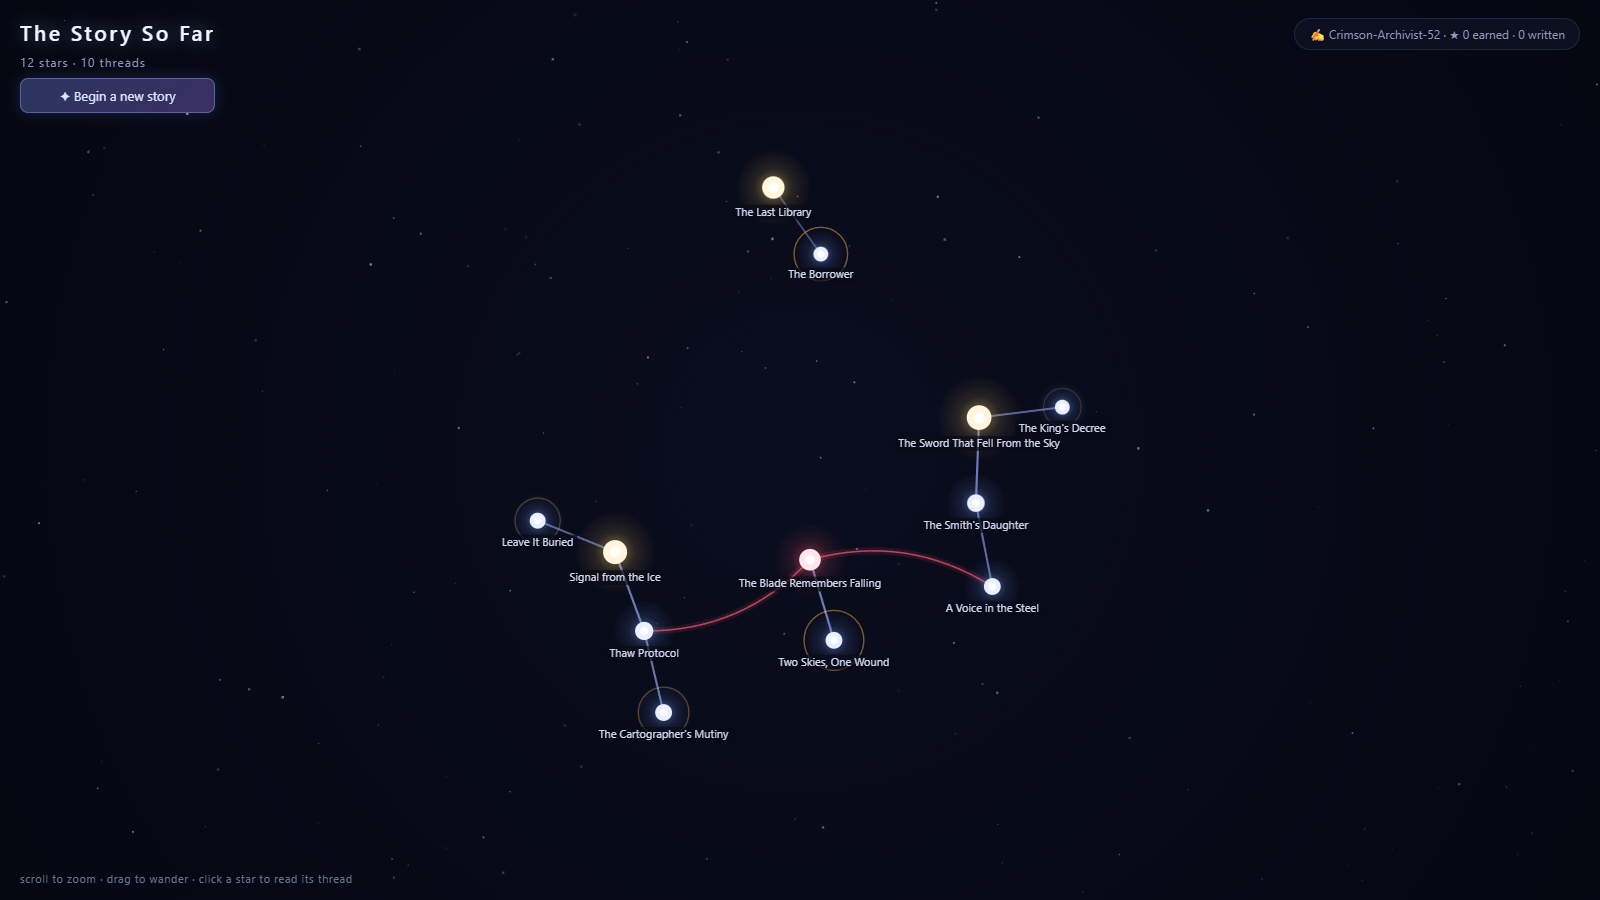
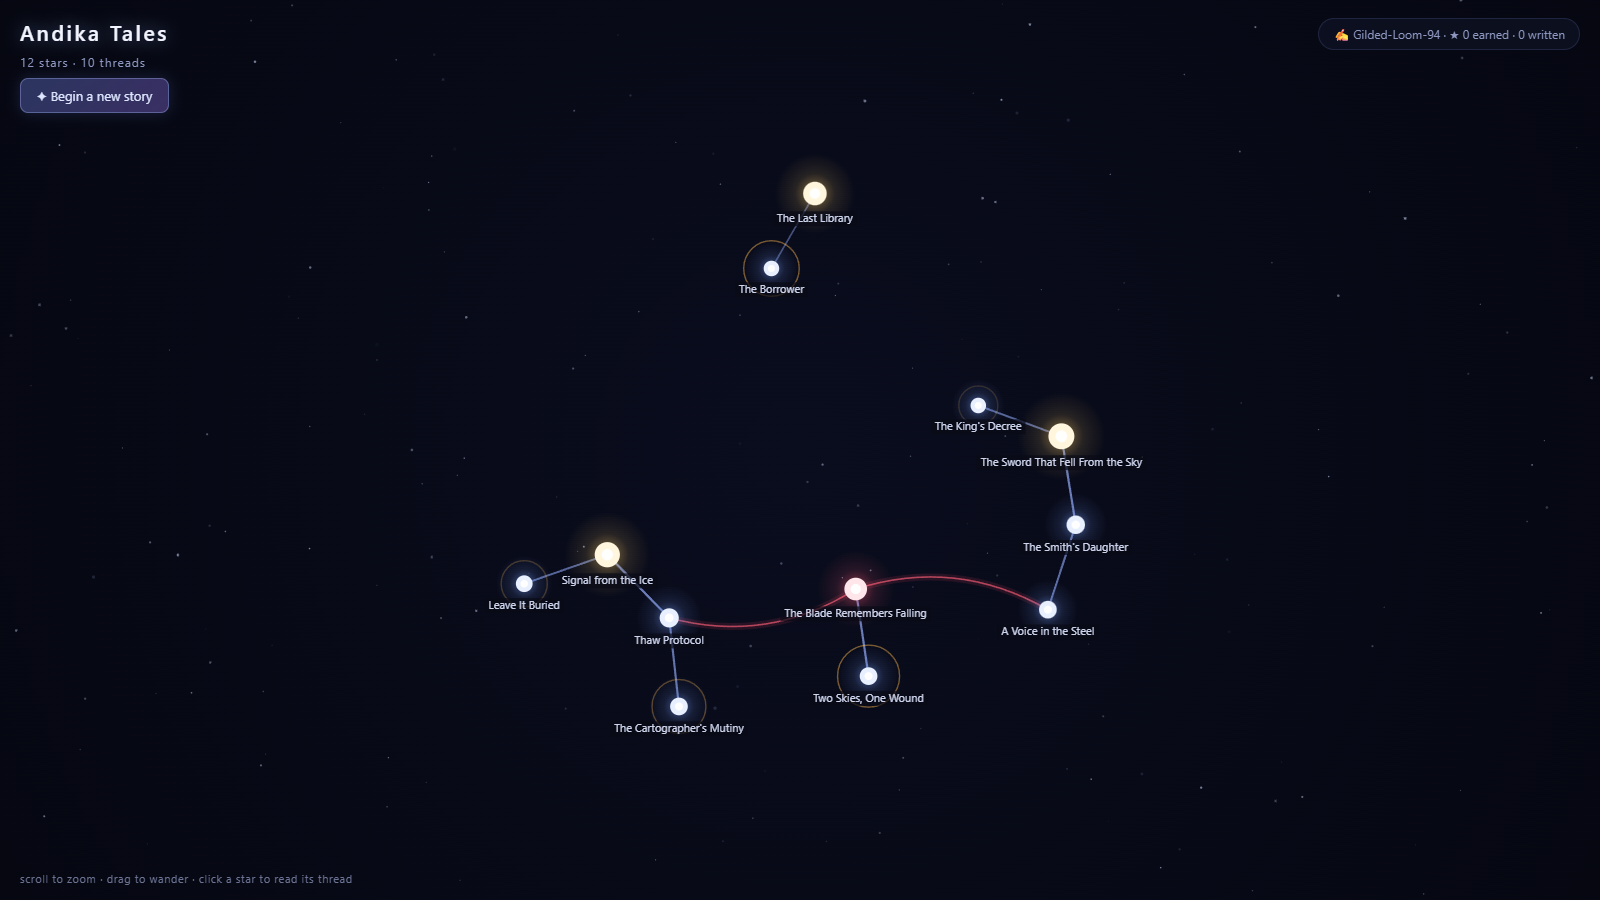
Rename to Andika Tales, add MIT license, drop the roadmap
The app is now Andika Tales everywhere it is user-visible or published:
browser title, HUD heading, API startup log, and the npm package names
(andika-tales, @andika/client, @andika/server), with the lockfile
regenerated. Directory names are unchanged, so the -w workspace scripts
still resolve.

The reader panel kicker read "The story so far" — the literal old app
name — so it becomes "The thread so far". Same meaning, no stale
branding. All five screenshots were recaptured against the running app
so none of them show the old name.

Adds an MIT LICENSE and a matching license field, and removes
docs/ROADMAP.md at the author's request, along with the roadmap-id tags
that pointed at it.

diff --git a/client/src/components/ReaderPanel.tsx b/client/src/components/ReaderPanel.tsx
@@ -58,7 +58,7 @@ export function ReaderPanel({
     <aside className="reader">
       <header className="reader-header">
         <div>
-          <div className="reader-kicker">The story so far</div>
+          <div className="reader-kicker">The thread so far</div>
           <div className="reader-count">
             {lineage ? `${lineage.length} chapter${lineage.length === 1 ? "" : "s"}` : "tracing…"}
           </div>

diff --git a/client/index.html b/client/index.html
@@ -3,7 +3,7 @@
   <head>
     <meta charset="UTF-8" />
     <meta name="viewport" content="width=device-width, initial-scale=1.0" />
-    <title>The Story So Far</title>
+    <title>Andika Tales</title>
     <style>
       html, body, #root { margin: 0; height: 100%; background: #04050d; }
     </style>

diff --git a/server/src/index.ts b/server/src/index.ts
@@ -123,5 +123,5 @@ app.post("/api/nodes/:id/vote", (req: AuthedRequest, res) => {
 });
 
 server.listen(PORT, () => {
-  console.log(`The Story So Far — API listening on http://localhost:${PORT}`);
+  console.log(`Andika Tales — API listening on http://localhost:${PORT}`);
 });

diff --git a/client/src/App.tsx b/client/src/App.tsx
@@ -175,7 +175,7 @@ export default function App() {
       />
 
       <div className="hud">
-        <h1>The Story So Far</h1>
+        <h1>Andika Tales</h1>
         <div className="hud-stats">
           {nodes.size} stars · {links.length} threads
         </div>

diff --git a/docs/HANDOVER.md b/docs/HANDOVER.md
@@ -14,15 +14,23 @@ Entry format:
 
 ## Entries (newest first)
 
-## 2026-09-03 — README with captured screenshots (R-009)
+## 2026-09-04 — Rename to Andika Tales, MIT license, roadmap removed
+**Done:** the app is now **Andika Tales** everywhere it is user-visible or published: browser title, the HUD heading, the API startup log, and the npm package names (`andika-tales`, `@andika/client`, `@andika/server`) with the lockfile regenerated. The reader panel kicker read "The story so far", which was the literal old app name, so it is now "The thread so far" — same meaning, no stale branding. All five screenshots were recaptured against the running app so none of them show the old name. Added an MIT `LICENSE` (Copyright 2026 Mundhir Werner, confirmed with the human) and a `license` field in the root manifest, with a License section in the README. Verified: both workspaces typecheck, the client production build succeeds, and both servers come up under the new name.
+**Half-done:** none.
+**Blocked:** nothing.
+**Next:** push to GitHub. `gh` still returns `HTTP 401: Bad credentials` — run `gh auth refresh -h github.com`, then `gh repo create andika-tales --public --source . --push`.
+**Open questions:** the working directory and git repo folder are still named `story-so-far`. Nothing depends on that name, so it is cosmetic, but the GitHub repo name is worth deciding deliberately when pushing.
+**Not in scope, noticed:** `docs/ROADMAP.md` was removed at the human's request, so the roadmap-id tags were stripped from the remaining entries. Commit messages from before the removal still cite R-002 and R-009; those are historical and were left alone. Still open: `engines` / `.nvmrc` for the Node 20+ requirement.
+
+## 2026-09-04 — README with captured screenshots
 **Done:** README rewritten as a proper front door — what the game is, the three node kinds, lineage tracing, crossovers, the composer, quickstart, architecture notes and code layout. Five screenshots captured from the running app against the seeded demo universe and committed to `docs/screenshots/`: the constellation, a traced five-chapter lineage, weaving a crossover, a crossover chapter in the reader, and the composer. All image paths verified to resolve.
 **Half-done:** none.
 **Blocked:** nothing.
-**Next:** push to GitHub (R-003). `gh` still returns `HTTP 401: Bad credentials` — run `gh auth refresh -h github.com` first, then `gh repo create story-so-far --public --source . --push`.
-**Open questions:** the repo has no LICENSE. GitHub treats that as all-rights-reserved by default, which may not match the intent of a collaborative writing project — worth deciding before making it public (R-010).
-**Not in scope, noticed:** screenshots were captured with a throwaway playwright-core script run from the scratchpad against the system Edge install, deliberately not added as a project dependency. If they need regular refreshing, that script is worth keeping as a devDependency-backed `npm run shots`. Also still open: `engines` / `.nvmrc` (R-008).
+**Next:** push to GitHub. `gh` still returns `HTTP 401: Bad credentials` — run `gh auth refresh -h github.com` first, then `gh repo create story-so-far --public --source . --push`.
+**Open questions:** the repo has no LICENSE. GitHub treats that as all-rights-reserved by default, which may not match the intent of a collaborative writing project — worth deciding before making it public.
+**Not in scope, noticed:** screenshots were captured with a throwaway playwright-core script run from the scratchpad against the system Edge install, deliberately not added as a project dependency. If they need regular refreshing, that script is worth keeping as a devDependency-backed `npm run shots`. Also still open: `engines` / `.nvmrc`.
 
-## 2026-09-03 — Fix native-module load failure after Node upgrade (R-002)
+## 2026-09-04 — Fix native-module load failure after Node upgrade
 **Done:** `better-sqlite3` upgraded 11.10.0 to 13.0.3 (and `@types/better-sqlite3` 7.6 to 9.6), which restores a prebuilt binary matching Node 24's ABI. Verified: both workspaces typecheck, client production build succeeds, seed runs, the API boots and serves identity/graph/node-create/vote/lineage correctly, the ancestor-merge guard still rejects invalid crossovers, and a new node fans out over the WebSocket to a connected client.
 **Half-done:** none.
 **Blocked:** nothing.

diff --git a/docs/CHANGELOG.md b/docs/CHANGELOG.md
@@ -14,7 +14,24 @@ Entry format:
 
 ## Entries (newest first)
 
-## 2026-09-03 (R-009)
+## 2026-09-04
+
+### project
+**Changed:** renamed the app from "The Story So Far" to **Andika Tales** — browser title, HUD heading, API startup log, and the npm package names (`andika-tales`, `@andika/client`, `@andika/server`). The lockfile was regenerated for the workspace rename. Directory names were untouched, so the `-w server` / `-w client` workspace scripts still resolve.
+
+**Added:** an MIT `LICENSE` and a matching `license` field in the root manifest, plus a License section in the README.
+
+**Removed:** `docs/ROADMAP.md`, at the human's request. The roadmap-id tags in the remaining handover and changelog entries were stripped with it, since they pointed at a file that no longer exists.
+
+### client
+**Changed:** the reader panel kicker from "The story so far" to "The thread so far" — because it was the literal old app name rendered prominently in the UI, so after the rename it read as leftover branding rather than as a label. The new wording keeps exactly the same meaning: the lineage up to the node you are reading.
+
+### docs
+**Changed:** recaptured all five screenshots against the running app, so none of them still show the old name in the HUD.
+
+**Fixed:** entries dated 2026-09-03 were corrected to 2026-09-04, which is when the work was actually done.
+
+## 2026-09-04
 
 ### docs
 **Added:** `docs/screenshots/` — five PNGs captured from the running app (constellation, lineage trace, crossover weaving, crossover chapter, composer), about 1.7 MB total.
@@ -23,7 +40,7 @@ Entry format:
 
 **Decided:** capture screenshots with a throwaway `playwright-core` script driving the system Edge install, run from the scratchpad rather than the repo — because screenshots are a rare manual task and a browser automation stack is a heavy dependency to carry in `package.json` for it. Alternative considered: adding playwright as a devDependency with an `npm run shots` script (worth doing if screenshots start needing regular refreshes; not worth it for one pass).
 
-## 2026-09-03 (R-002)
+## 2026-09-04
 
 ### server
 **Fixed:** the API failed to start with `ERR_DLOPEN_FAILED` — "The module `better_sqlite3.node` was compiled against a different Node.js version using NODE_MODULE_VERSION 127. This version of Node.js requires NODE_MODULE_VERSION 137." The local Node runtime had moved from 22 to 24; the installed `better-sqlite3` 11.10.0 predates Node 24 and ships no prebuilt binary for its ABI.
@@ -32,7 +49,7 @@ Entry format:
 
 **Decided:** upgrade the dependency rather than rebuild the existing one — because `npm rebuild better-sqlite3` on 11.10.0 has no prebuild for ABI 137 and would fall back to compiling from source, which requires MSVC build tools that this Windows machine does not have. Alternatives considered: pinning Node back to 22 (rejected — pins every contributor to an ageing runtime to satisfy one dependency); bumping only to `^12` (the minimum with Node 24 prebuilds, rejected — 13 is current, equally compatible, and avoids a second upgrade later).
 
-## 2026-09-03 (R-001)
+## 2026-09-04
 
 ### project
 **Added:** the initial build of The Story So Far — an Express + WebSocket + SQLite API over a story DAG (genesis, continuation and crossover nodes), and a Vite + React client rendering the graph as a d3-force constellation on canvas, with lineage tracing, red-string crossovers, votes, anonymous identities, and attention pulses on neglected stories.

diff --git a/README.md b/README.md
@@ -104,4 +104,8 @@ client/src/
 
 ## Where it's going
 
-Planned and parked work lives in [docs/ROADMAP.md](docs/ROADMAP.md), with the reasoning behind past decisions in [docs/CHANGELOG.md](docs/CHANGELOG.md). Next up: moderation tooling, discovery feeds for the hottest threads and loneliest stars, and Postgres when this outgrows a single file.
+The reasoning behind past decisions lives in [docs/CHANGELOG.md](docs/CHANGELOG.md). Next up: moderation tooling, discovery feeds for the hottest threads and loneliest stars, and Postgres when this outgrows a single file.
+
+## License
+
+[MIT](LICENSE) — do what you like with it, just keep the copyright notice.
